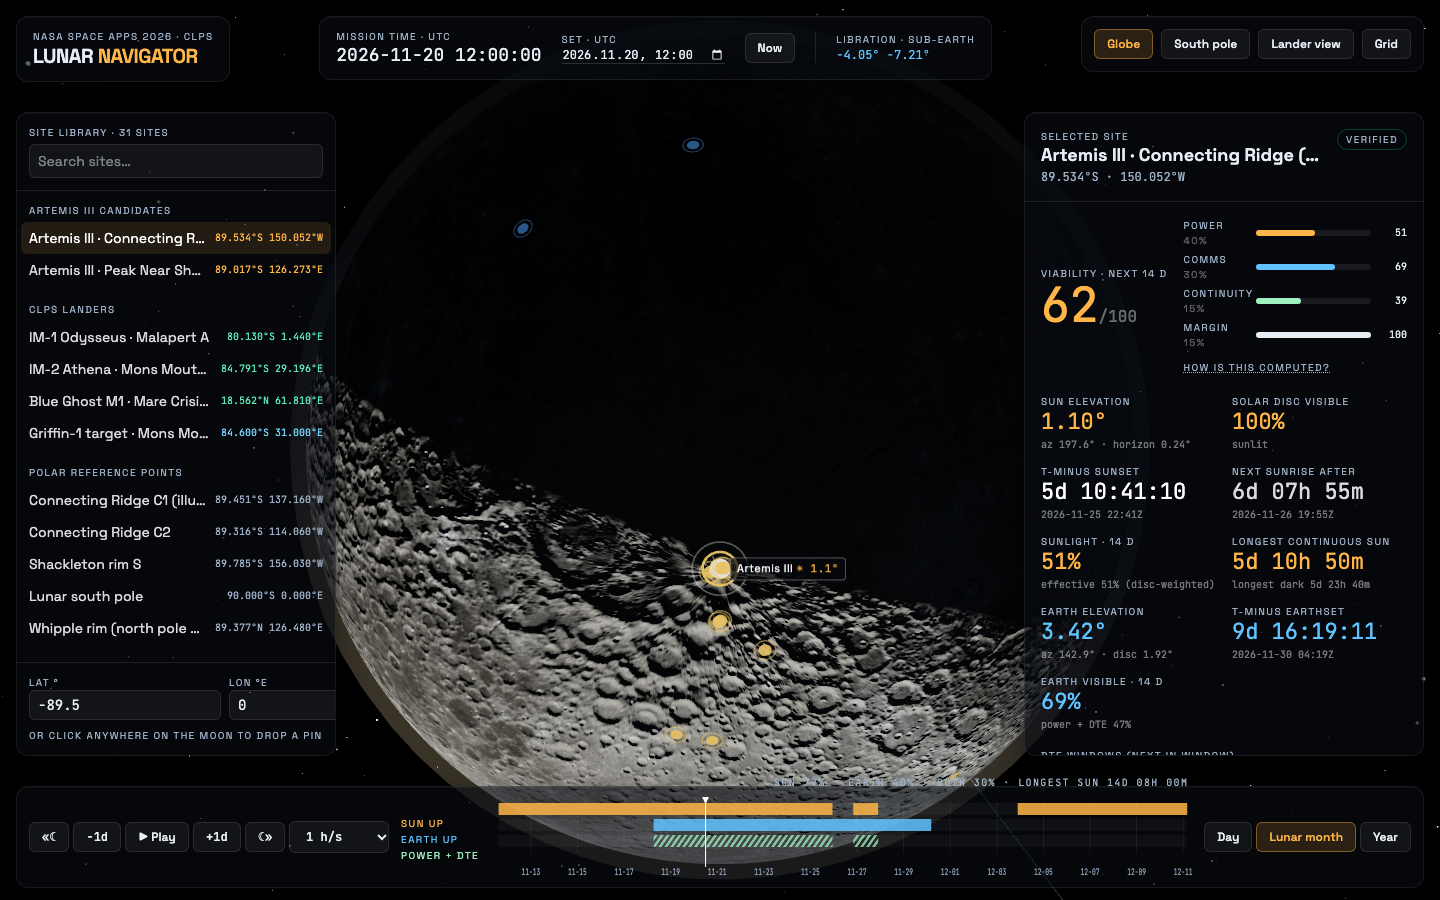
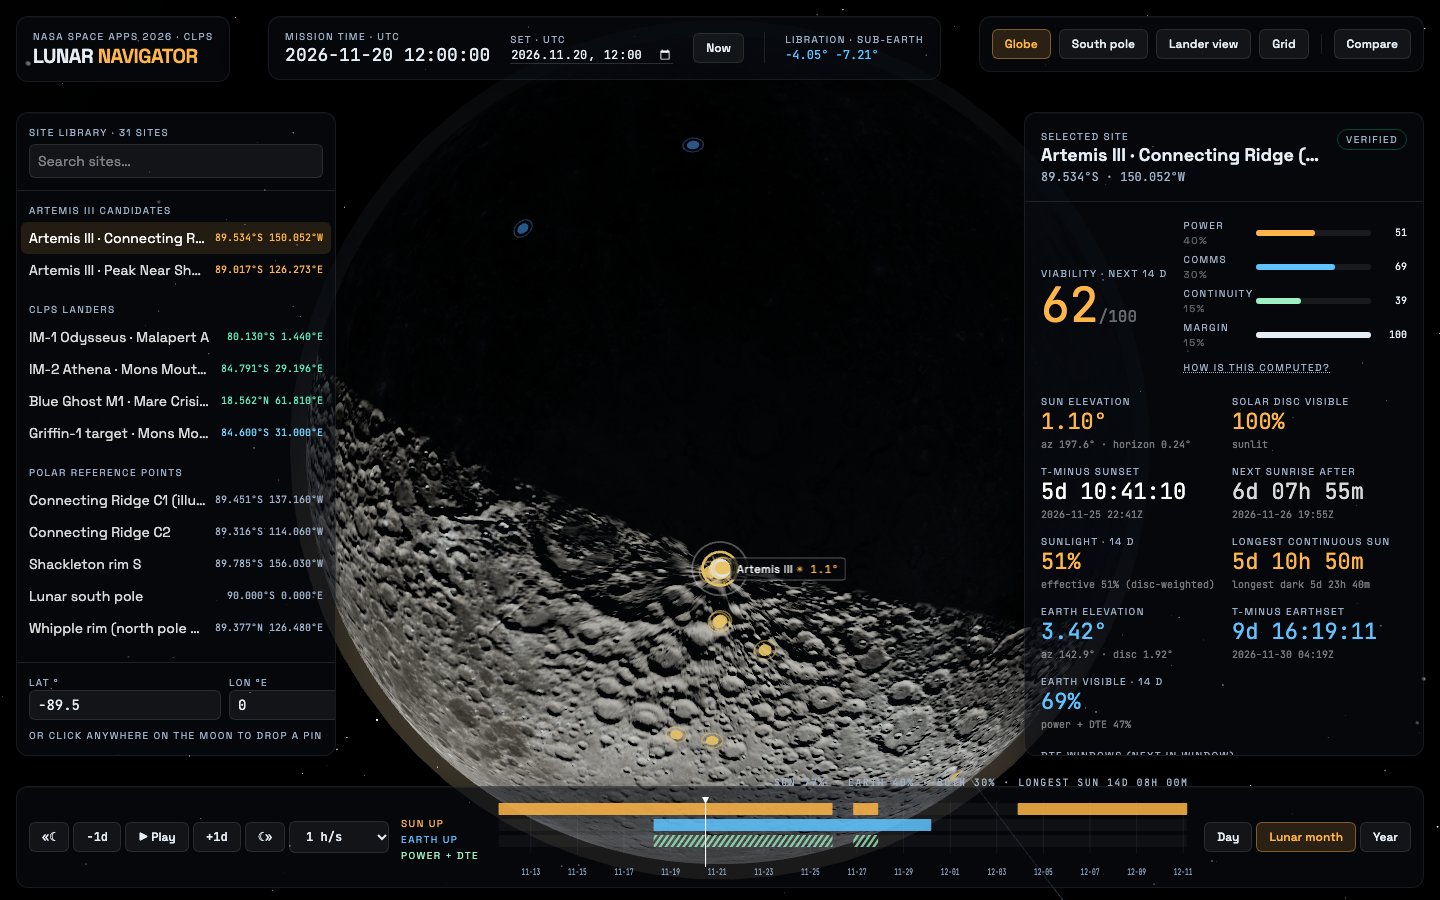
Slice 5: compare mode with launch-slip slider, signed deltas, nearby-sites mode, CSV/JSON export

diff --git a/src/ui/Compare.tsx b/src/ui/Compare.tsx
@@ -1,0 +1,110 @@
+import { useEffect, useMemo, useState } from 'react';
+import { computeMetrics, SPHERE_HORIZON, type HorizonProfile, type Metrics } from '@/astro';
+import { SITES, GROUP_LABEL, GROUP_ORDER, fmtLat, fmtLon } from '@/data/sites';
+import { useStore, resolveSite } from '@/state/store';
+import { useCompare, type Scenario } from '@/state/compare';
+import { useOptions } from '@/state/useMetrics';
+import { getLibraryHorizon, requestCustomHorizon } from '@/state/useHorizon';
+import { fmtDateTime, fmtDuration, fmtPct } from './format';
+import { exportCsv, exportJson, type ExportRow } from './export';
+
+const DAY = 86400_000;
+function useScenarioHorizon(sc: Scenario): HorizonProfile {
+  const [custom, setCustom] = useState<HorizonProfile | null>(null);
+  const ready = useStore((s) => s.horizonsReady);
+  useEffect(() => { if (sc.siteId !== 'custom' || !sc.custom) return; let alive = true; setCustom(null); requestCustomHorizon(sc.custom.lat, sc.custom.lon).then((p) => alive && setCustom(p)); return () => { alive = false; }; }, [sc.siteId, sc.custom]);
+  return useMemo(() => (sc.siteId === 'custom' ? custom ?? { ...SPHERE_HORIZON, label: 'computing terrain…' } : (ready && getLibraryHorizon(sc.siteId)) || SPHERE_HORIZON), [sc.siteId, custom, ready]);
+}
+
+/** Signed delta chip: colour + sign + arrow so colour is never the only signal. */
+function Delta({ v, unit = '', good = 'up', digits = 0 }: { v: number; unit?: string; good?: 'up' | 'down'; digits?: number }) {
+  if (!Number.isFinite(v) || Math.abs(v) < 0.5 * 10 ** -digits) return <span className="text-white/35 num text-[10px]">±0</span>;
+  const positive = v > 0, isGood = good === 'up' ? positive : !positive;
+  return <span className={`num text-[10px] ${isGood ? 'text-emerald-300' : 'text-rose-300'}`} aria-label={`${positive ? 'up' : 'down'} ${Math.abs(v).toFixed(digits)}${unit}`}>{positive ? '▲+' : '▼−'}{Math.abs(v).toFixed(digits)}{unit}</span>;
+}
+
+function Card({ sc, baseMs, slipDays, windowDays, best, onMetrics }: { sc: Scenario; baseMs: number; slipDays: number; windowDays: number; best: boolean; onMetrics: (key: string, row: ExportRow) => void }) {
+  const { update, remove } = useCompare(); const opts = useOptions(); const hz = useScenarioHorizon(sc);
+  const site = resolveSite(sc.siteId, sc.custom);
+  const s = { lat: site.lat, lon: site.lon, heightKm: site.heightKm };
+  const t0 = baseMs + sc.offsetDays * DAY, t = t0 + slipDays * DAY;
+  const base = useMemo(() => computeMetrics(s, hz, t0, windowDays, opts), [s.lat, s.lon, s.heightKm, hz, t0, windowDays, opts]); // eslint-disable-line react-hooks/exhaustive-deps
+  const m: Metrics = useMemo(() => (slipDays === 0 ? base : computeMetrics(s, hz, t, windowDays, opts)), [base, slipDays, s.lat, s.lon, s.heightKm, hz, t, windowDays, opts]); // eslint-disable-line react-hooks/exhaustive-deps
+  useEffect(() => { onMetrics(sc.key, { label: site.name, lat: site.lat, lon: site.lon, landingUtc: new Date(t).toISOString(), slipDays, windowDays, horizon: hz.label, metrics: m }); }, [m, sc.key, site, t, slipDays, windowDays, hz.label, onMetrics]);
+  const toDark = (x: Metrics) => (x.now.sunUp && x.next.sunset ? x.next.sunset - (x === m ? t : t0) : 0);
+  const w = m.window, bw = base.window;
+  const tone = m.score.total >= 70 ? 'text-emerald-300' : m.score.total >= 40 ? 'text-solar' : 'text-rose-300';
+  return (
+    <article className={`glass rounded-xl p-3 flex flex-col gap-2 min-w-0 ${best ? 'ring-1 ring-emerald-400/50' : ''}`} aria-label={`Scenario ${site.name}`}>
+      <div className="flex items-start justify-between gap-2">
+        <select aria-label="Scenario site" className="bg-ink/60 border border-white/10 rounded-md px-1.5 py-1 text-xs min-w-0 flex-1" value={sc.siteId} onChange={(e) => update(sc.key, { siteId: e.target.value, custom: e.target.value === 'custom' ? sc.custom ?? useStore.getState().custom : null })}>
+          {sc.custom && <option value="custom">Custom pin {fmtLat(sc.custom.lat)} {fmtLon(sc.custom.lon)}</option>}
+          {GROUP_ORDER.map((g) => <optgroup key={g} label={GROUP_LABEL[g]}>{SITES.filter((x) => x.group === g).map((x) => <option key={x.id} value={x.id}>{x.name}</option>)}</optgroup>)}
+        </select>
+        <button className="btn px-2" aria-label="Remove scenario" onClick={() => remove(sc.key)}>✕</button>
+      </div>
+      <label className="flex items-center gap-2 text-[11px]"><span className="label">Date offset</span><input aria-label="Scenario date offset in days" type="number" step={1} className="num w-16 bg-white/5 border border-white/10 rounded px-1.5 py-0.5" value={sc.offsetDays} onChange={(e) => update(sc.key, { offsetDays: +e.target.value || 0 })} /><span className="label">d</span><span className="num text-white/55 ml-auto">{fmtDateTime(t)}</span></label>
+      <div className="flex items-end gap-3">
+        <div><div className="label">Viability</div><div className={`num text-4xl leading-none ${tone}`}>{m.score.total.toFixed(0)}</div></div>
+        <div className="pb-1"><Delta v={m.score.total - base.score.total} /></div>
+        {best && <span className="label text-emerald-300 ml-auto">best</span>}
+      </div>
+      <dl className="grid grid-cols-[1fr_auto_auto] gap-x-2 gap-y-1 text-[11px] num">
+        <Row l="Sunlight" v={fmtPct(w.sunlitFrac)} d={<Delta v={100 * (w.sunlitFrac - bw.sunlitFrac)} unit="pt" />} />
+        <Row l="Earth visible" v={fmtPct(w.earthFrac)} d={<Delta v={100 * (w.earthFrac - bw.earthFrac)} unit="pt" />} />
+        <Row l="Power + DTE" v={fmtPct(w.bothFrac)} d={<Delta v={100 * (w.bothFrac - bw.bothFrac)} unit="pt" />} />
+        <Row l="Longest sun" v={fmtDuration(w.longestSunlitMs)} d={<Delta v={(w.longestSunlitMs - bw.longestSunlitMs) / 3600_000} unit="h" />} />
+        <Row l="Longest dark" v={fmtDuration(w.longestDarkMs)} d={<Delta v={(w.longestDarkMs - bw.longestDarkMs) / 3600_000} unit="h" good="down" />} />
+        <Row l="To first sunset" v={m.now.sunUp ? (m.next.sunset ? fmtDuration(m.next.sunset - t) : '> 400 d') : 'dark at landing'} d={<Delta v={(toDark(m) - toDark(base)) / 3600_000} unit="h" />} />
+        <Row l="Earth at landing" v={`${m.now.earthEl.toFixed(1)}°`} d={<Delta v={m.now.earthEl - base.now.earthEl} unit="°" digits={1} />} />
+      </dl>
+      <MiniBands m={m} t={t} windowDays={windowDays} />
+      <div className="label normal-case tracking-normal text-white/40 truncate" title={hz.label}>{hz.label}</div>
+    </article>
+  );
+}
+const Row = ({ l, v, d }: { l: string; v: string; d: React.ReactNode }) => <><dt className="label normal-case tracking-normal text-white/55">{l}</dt><dd className="text-right">{v}</dd><dd className="text-right w-14">{d}</dd></>;
+function MiniBands({ m, t, windowDays }: { m: Metrics; t: number; windowDays: number }) {
+  const span = windowDays * DAY, x = (ms: number) => `${(100 * Math.max(0, Math.min(1, (ms - t) / span))).toFixed(2)}%`;
+  const lane = (ws: { start: number; end: number }[], color: string, y: number) => ws.map((w, i) => <rect key={i} x={x(w.start)} y={y} width={`${Math.max(0.2, 100 * (Math.min(w.end, t + span) - Math.max(w.start, t)) / span).toFixed(2)}%`} height="5" fill={color} />);
+  return (
+    <svg viewBox="0 0 100 20" preserveAspectRatio="none" className="w-full h-5 block" role="img" aria-label={`Window bands: sunlit ${fmtPct(m.window.sunlitFrac)}, Earth ${fmtPct(m.window.earthFrac)}, both ${fmtPct(m.window.bothFrac)}`}>
+      <rect width="100" height="20" fill="rgba(255,255,255,.04)" />
+      {lane(m.window.sunWindows, '#ffb547', 1)}{lane(m.window.earthWindows, '#5fc3ff', 7.5)}{lane(m.window.bothWindows, '#9ef0c0', 14)}
+    </svg>
+  );
+}
+
+export function Compare() {
+  const { open, setOpen, scenarios, slipDays, setSlip, addCurrent, nearby, reset } = useCompare();
+  const baseMs = useStore((s) => s.timeMs), windowDays = useStore((s) => s.windowDays);
+  const [rows, setRows] = useState<Record<string, ExportRow>>({});
+  const onMetrics = useMemo(() => (key: string, row: ExportRow) => setRows((r) => (r[key] === row ? r : { ...r, [key]: row })), []);
+  const list = scenarios.map((s) => rows[s.key]).filter(Boolean);
+  const bestKey = scenarios.length > 1 ? scenarios.reduce((b, s) => (rows[s.key] && (!b || rows[s.key].metrics.score.total > rows[b].metrics.score.total) ? s.key : b), '' as string) : '';
+  if (!open) return null;
+  return (
+    <div className="absolute inset-x-4 top-28 bottom-36 z-30 flex flex-col gap-3 rounded-2xl p-3 bg-ink/80 border border-white/8" role="dialog" aria-label="Compare scenarios">
+      <div className="glass rounded-xl px-4 py-3 flex items-center gap-4 flex-wrap">
+        <div><div className="label">Compare</div><div className="text-sm font-semibold">Scenarios · site × landing date</div></div>
+        <label className="flex items-center gap-3 flex-1 min-w-[18rem]">
+          <span className="label whitespace-nowrap">Launch slips by</span>
+          <input aria-label="Launch slip in days" type="range" min={-14} max={28} step={1} value={slipDays} onChange={(e) => setSlip(+e.target.value)} className="flex-1 accent-[#ffb547]" />
+          <span className={`num text-lg w-16 text-right ${slipDays === 0 ? 'text-white/60' : 'text-solar'}`}>{slipDays > 0 ? '+' : ''}{slipDays} d</span>
+        </label>
+        <div className="flex items-center gap-2">
+          <button className="btn" onClick={addCurrent} disabled={scenarios.length >= 4}>+ Add current</button>
+          <button className="btn" onClick={nearby}>Same date · nearby sites</button>
+          <button className="btn" onClick={reset}>Reset</button>
+          <button className="btn" onClick={() => exportCsv(list)} disabled={!list.length}>CSV</button>
+          <button className="btn" onClick={() => exportJson(list)} disabled={!list.length}>JSON</button>
+          <button className="btn" onClick={() => setOpen(false)} aria-label="Close compare">Close ✕</button>
+        </div>
+      </div>
+      <div className="grid gap-3 flex-1 min-h-0 overflow-auto" style={{ gridTemplateColumns: `repeat(${Math.max(1, scenarios.length)}, minmax(16rem, 1fr))` }}>
+        {scenarios.map((sc) => <Card key={sc.key} sc={sc} baseMs={baseMs} slipDays={slipDays} windowDays={windowDays} best={sc.key === bestKey} onMetrics={onMetrics} />)}
+      </div>
+      <p className="label normal-case tracking-normal text-white/45">Deltas (▲ green / ▼ red) compare each scenario with its own no-slip baseline. Window: {windowDays} d from landing. Base date: {fmtDateTime(baseMs)} (the mission clock).</p>
+    </div>
+  );
+}

diff --git a/src/state/compare.ts b/src/state/compare.ts
@@ -1,0 +1,32 @@
+import { create } from 'zustand';
+import { SITES } from '@/data/sites';
+import { DEG } from '@/astro';
+import { useStore, resolveSite, type CustomSite } from './store';
+
+export interface Scenario { key: string; siteId: string; custom: CustomSite | null; offsetDays: number }
+interface CompareState {
+  open: boolean; scenarios: Scenario[]; slipDays: number;
+  setOpen: (v: boolean) => void; setSlip: (d: number) => void;
+  addCurrent: () => void; remove: (key: string) => void; update: (key: string, patch: Partial<Scenario>) => void;
+  nearby: () => void; reset: () => void;
+}
+let seq = 0;
+const fromCurrent = (): Scenario => { const s = useStore.getState(); return { key: `s${++seq}`, siteId: s.siteId, custom: s.custom, offsetDays: 0 }; };
+
+export const useCompare = create<CompareState>((set, get) => ({
+  open: false, scenarios: [], slipDays: 0,
+  setOpen: (open) => set((st) => ({ open, scenarios: open && st.scenarios.length === 0 ? [fromCurrent()] : st.scenarios })),
+  setSlip: (slipDays) => set({ slipDays }),
+  addCurrent: () => set((st) => (st.scenarios.length >= 4 ? st : { scenarios: [...st.scenarios, fromCurrent()] })),
+  remove: (key) => set((st) => ({ scenarios: st.scenarios.filter((s) => s.key !== key) })),
+  update: (key, patch) => set((st) => ({ scenarios: st.scenarios.map((s) => (s.key === key ? { ...s, ...patch } : s)) })),
+  /** Same date, nearby sites: the current site plus its 3 nearest library sites (terrain-backed). */
+  nearby: () => {
+    const cur = fromCurrent(); const a = resolveSite(cur.siteId, cur.custom);
+    const dist = (lat: number, lon: number) => Math.acos(Math.min(1, Math.sin(a.lat * DEG) * Math.sin(lat * DEG) + Math.cos(a.lat * DEG) * Math.cos(lat * DEG) * Math.cos((lon - a.lon) * DEG))) * 1737.4;
+    const near = SITES.filter((s) => s.id !== a.id).map((s) => ({ s, d: dist(s.lat, s.lon) })).sort((x, y) => x.d - y.d).slice(0, 3);
+    set({ scenarios: [cur, ...near.map((n) => ({ key: `s${++seq}`, siteId: n.s.id, custom: null, offsetDays: 0 }))], open: true });
+    void get;
+  },
+  reset: () => set({ scenarios: [fromCurrent()], slipDays: 0 }),
+}));

diff --git a/src/ui/export.ts b/src/ui/export.ts
@@ -1,0 +1,12 @@
+import type { Metrics } from '@/astro';
+export interface ExportRow { label: string; lat: number; lon: number; landingUtc: string; slipDays: number; windowDays: number; horizon: string; metrics: Metrics }
+const dl = (name: string, body: string, type: string) => { const a = document.createElement('a'); a.href = URL.createObjectURL(new Blob([body], { type })); a.download = name; a.click(); setTimeout(() => URL.revokeObjectURL(a.href), 5000); };
+export function exportJson(rows: ExportRow[]) {
+  dl(`lunar-navigator-compare-${Date.now()}.json`, JSON.stringify({ generated: new Date().toISOString(), tool: 'Lunar Navigator', scoreFormula: '40*discFrac + 30*earthFrac + 15*continuity + 15*min(1, hoursToDark/72)', rows }, null, 1), 'application/json');
+}
+export function exportCsv(rows: ExportRow[]) {
+  const h = ['label', 'lat', 'lon', 'landing_utc', 'slip_days', 'window_days', 'horizon', 'score', 'sunlit_frac', 'effective_sun_frac', 'earth_frac', 'both_frac', 'longest_sun_h', 'longest_dark_h', 'next_sunset_utc', 'next_sunrise_utc', 'next_earthset_utc', 'next_earthrise_utc', 'sun_el_now', 'earth_el_now'];
+  const f = (t: number | null) => (t === null ? '' : new Date(t).toISOString());
+  const lines = rows.map((r) => { const m = r.metrics; return [JSON.stringify(r.label), r.lat, r.lon, r.landingUtc, r.slipDays, r.windowDays, JSON.stringify(r.horizon), m.score.total.toFixed(1), m.window.sunlitFrac.toFixed(4), m.window.effectiveSunFrac.toFixed(4), m.window.earthFrac.toFixed(4), m.window.bothFrac.toFixed(4), (m.window.longestSunlitMs / 3600_000).toFixed(1), (m.window.longestDarkMs / 3600_000).toFixed(1), f(m.next.sunset), f(m.next.sunrise), f(m.next.earthset), f(m.next.earthrise), m.now.sunEl.toFixed(3), m.now.earthEl.toFixed(3)].join(','); });
+  dl(`lunar-navigator-compare-${Date.now()}.csv`, [h.join(','), ...lines].join('\n'), 'text/csv');
+}

diff --git a/src/ui/Hud.tsx b/src/ui/Hud.tsx
@@ -1,9 +1,11 @@
 import { useStore } from '@/state/store';
 import { subPoints } from '@/astro';
 import { useMemo } from 'react';
+import { useCompare } from '@/state/compare';
 
 export function Hud() {
   const { timeMs, setTime, view, setView, showGrid, toggleGrid } = useStore();
+  const compareOpen = useCompare((s) => s.open), setCompareOpen = useCompare((s) => s.setOpen);
   const d = new Date(timeMs);
   const lib = useMemo(() => subPoints(d), [timeMs]); // eslint-disable-line react-hooks/exhaustive-deps
   const utcLocal = d.toISOString().slice(0, 16);
@@ -32,6 +34,8 @@ export function Hud() {
         <button className={`btn ${view === 'polar' ? 'btn-on' : ''}`} onClick={() => setView('polar')} aria-pressed={view === 'polar'}>South pole</button>
         <button className={`btn ${view === 'horizon' ? 'btn-on' : ''}`} onClick={() => setView('horizon')} aria-pressed={view === 'horizon'}>Lander view</button>
         <button className={`btn ${showGrid ? 'btn-on' : ''}`} onClick={toggleGrid} aria-pressed={showGrid}>Grid</button>
+        <span className="w-px h-5 bg-white/10 mx-1" />
+        <button className={`btn ${compareOpen ? 'btn-on' : ''}`} onClick={() => setCompareOpen(!compareOpen)} aria-pressed={compareOpen}>Compare</button>
       </div>
     </header>
   );

diff --git a/src/App.tsx b/src/App.tsx
@@ -3,6 +3,8 @@ import { Hud } from './ui/Hud';
 import { SitePanel } from './ui/SitePanel';
 import { Dashboard } from './ui/Dashboard';
 import { Timeline } from './ui/Timeline';
+import { Compare } from './ui/Compare';
+import { useCompare } from './state/compare';
 import { useStore } from './state/store';
 import { loadEphemTable } from './state/ephemLoader';
 import { loadHorizons } from './state/useHorizon';
@@ -28,6 +30,7 @@ export default function App() {
   useEffect(() => { setGl(hasWebGL()); void loadEphemTable(); void loadHorizons(); }, []);
   usePlayback();
   const view = useStore((s) => s.view);
+  const compareOpen = useCompare((s) => s.open);
   return (
     <div className="relative h-full w-full hud-grid">
       {gl === false ? (
@@ -36,9 +39,10 @@ export default function App() {
         <Suspense fallback={<div className="absolute inset-0 grid place-items-center"><div className="label animate-pulse">Loading lunar surface…</div></div>}>{gl && (view === 'horizon' ? <HorizonDome /> : <Globe />)}</Suspense>
       )}
       <Hud />
-      <SitePanel />
-      <Dashboard />
+      {!compareOpen && <SitePanel />}
+      {!compareOpen && <Dashboard />}
       <Timeline />
+      <Compare />
       <div className="grain" aria-hidden />
     </div>
   );

diff --git a/e2e/screens.spec.ts b/e2e/screens.spec.ts
@@ -28,4 +28,11 @@ test('globe, dashboard, timeline', async ({ page }) => {
   await expect(page.getByText('Custom site')).toBeVisible();
   expect(await page.locator('.pin-label').count()).toBeGreaterThan(0);
   expect(page.url()).toContain('lat=');
+  await page.getByRole('button', { name: 'Compare' }).click();
+  await page.getByRole('button', { name: 'Same date · nearby sites' }).click();
+  await page.waitForTimeout(1500);
+  await page.getByRole('slider', { name: 'Launch slip in days' }).fill('7');
+  await page.waitForTimeout(1200);
+  await page.screenshot({ path: 'docs/screens/07-compare.png' });
+  await expect(page.getByText('best')).toBeVisible();
 });

diff --git a/TASKS.md b/TASKS.md
@@ -9,8 +9,8 @@
 ✅ Time controls (scrub/drag, UTC picker, play + 6 speeds, ±1 d, ±1 lunar day) · ✅ metrics + live T-minus countdowns · ✅ viability score w/ formula · ✅ bands day/month/year, hover tooltip, click-to-jump · ✅ URL state (site|lat/lon, t, view, span, win, sunset, margin, mode) · ✅ events engine + 8 sanity tests (Apollo 11, Blue Ghost sunset, Chandrayaan-3, far side, pole) · ✅ screenshots · ✅ commit
 ## 4 Horizon view + terrain ✅
 ✅ LOLA DEMs (85S 40 m, 75S/75N 240 m, global 16 ppd), pure-Node PDS reader, projection verified vs global DEM (42 m) · ✅ great-circle horizon sweep (250 km, eye 2 m) for 31 sites · ✅ worker + 3 downsampled tiles for custom pins · ✅ sky dome: terrain silhouette, Sun/Earth at true size, planets, tracks, compass grid · ✅ terrain wired into all metrics/timeline · ✅ Gläser et al. comparison in VALIDATION.md (south pole within 1–9 pts; Whipple gap explained) · ✅ "Sky from the site" table (rise/set/dir/visibility, timeanddate-style) · ✅ screenshots · ✅ commit
-## 5 Compare
-⬜ 2–4 scenarios · ⬜ slip slider + deltas · ⬜ nearby-sites mode · ⬜ CSV/JSON export · ⬜ commit
+## 5 Compare ✅
+✅ 2–4 scenario cards (site × date offset) · ✅ launch-slip slider (−14…+28 d) with signed ▲/▼ deltas vs each card's no-slip baseline, best-card highlight · ✅ same-date nearby-sites mode (3 nearest terrain-backed sites) · ✅ CSV/JSON export · ✅ commit
 ## 6 Polish + audiences
 ⬜ Planner/Explorer · ⬜ intro + fly-through · ⬜ Cmd+K, shortcuts · ⬜ event log · ⬜ Methodology panel · ⬜ a11y + reduced-motion + WebGL fallback · ⬜ README, demo script, pitch outline, limitations · ⬜ commit
 ## 7 Stretch
